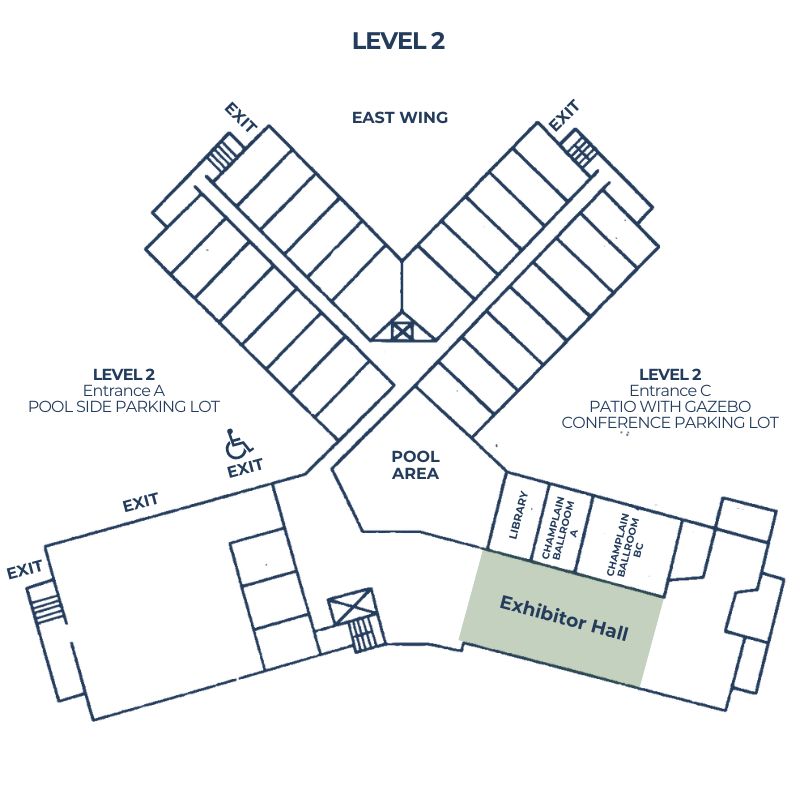
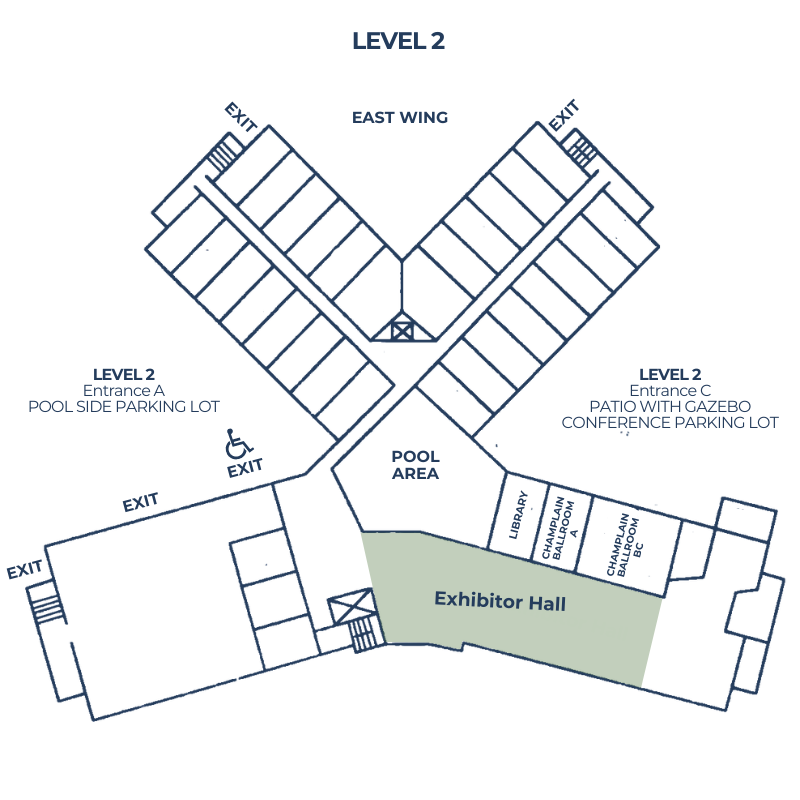
exhibitor section

Changed region(s): [[0.4375, 0.6562, 0.75, 0.8125], [0.75, 0.7812, 0.7812, 0.8125]]

diff --git a/api/templates/exhibitors.html b/api/templates/exhibitors.html
@@ -1,0 +1,26 @@
+{% include "header.html" %}
+{% block content %}
+
+
+{% for exhibitor in exhibitors %}
+
+<div class="container">
+    <div class="row">
+
+            <div class="col-lg-2">
+                <a href="{{ url_for('exhibitor_page', name=exhibitor['name']) }}">
+                <img src='{{ exhibitor["logo"]}}'></a>
+            </div>
+
+            <div class="col-lg-10">
+                <h3><a href="{{ url_for('exhibitor_page', name=exhibitor['name']) }}">{{ exhibitor["name"] }}</a></h3>
+                <p>{{ exhibitor["description"] }}</p>
+            </div>
+    </div>
+
+</div>
+
+{% endfor %}
+
+{% endblock %}
+{% include "footer.html" %}

diff --git a/api/templates/exhibitor_page.html b/api/templates/exhibitor_page.html
@@ -1,0 +1,23 @@
+{% include "header.html" %}
+{% block content %}
+
+
+<div class="container">
+    <div class="row">
+
+            <div class="col-lg-2">
+                <img src='{{ exhibitor["logo"]}}'>
+            </div>
+
+            <div class="col-lg-10">
+                <h1><a href="#">{{ exhibitor["name"] }}</a></h1>
+                <h5>Exhibitor Hall</h5>
+                <p>{{ exhibitor["description"] }}</p>
+                <img class="map_image" src='{{ url_for("static", filename="images/exhibitor_hall.png") }}'>
+            </div>
+    </div>
+
+</div>
+
+{% endblock %}
+{% include "footer.html" %}

diff --git a/api/templates/header.html b/api/templates/header.html
@@ -55,6 +55,9 @@
     <a class="nav-link {% if request.endpoint == 'filter_by_day' and request.args.get('timeframe') == 'friday' %}active{% endif %}" href="{{ url_for('filter_by_day', timeframe='friday') }}">Friday</a>
   </li>
     <li class="nav-item">
+    <a class="nav-link {% if request.endpoint == 'exhibitors' %}active{% endif %}" href="{{ url_for('exhibitors') }}">Exhibitors</a>
+  </li>
+    <li class="nav-item">
     <a class="nav-link {% if request.endpoint == 'map' %}active{% endif %}" href="{{ url_for('map') }}">Map & Parking</a>
   </li>
 

diff --git a/api/static/styles.css b/api/static/styles.css
@@ -42,6 +42,7 @@ a, #sessions_rows > div.col-lg-6 > a, #sessions_rows > div.col-lg-6 > a > div {
 
 .container, #sessions_rows {
     margin-top: 2%;
+    padding-bottom: 2%;
 }
 
 .hidden {

diff --git a/api/templates/map.html b/api/templates/map.html
@@ -18,6 +18,7 @@
     <div>
 </div>
 
-
+</div>
+</div>
 {% endblock %}
 {% include "footer.html" %}

diff --git a/api/main.py b/api/main.py
@@ -94,22 +94,17 @@ def presenter(name):
 def map():
     return render_template('map.html')
 
-@app.route('/sessions')
-def sessions():
-    df = pd.read_csv("api/static/summaries.csv").to_dict('records')
-    return render_template('sessions.html', sessions=df)
+@app.route('/exhibitors')
+def exhibitors():
+    df = pd.read_csv("api/static/oblc_data - exhibitors.csv").to_dict('records')
+    return render_template('exhibitors.html', exhibitors=df)
 
-@app.route('/sponsors')
-def sponsors():
-    df = pd.read_csv("api/static/exhibitors.csv").to_dict('records')
-    return render_template('sponsors.html', sponsors=df)
-
-@app.route('/sponsor_page/<name>')
-def sponsor(name):
+@app.route('/exhibitor_page/<name>')
+def exhibitor_page(name):
     decoded_name = unquote(name)
-    df = pd.read_csv("api/static/exhibitors.csv")
+    df = pd.read_csv("api/static/oblc_data - exhibitors.csv")
     row = df.loc[df['name'] == decoded_name].to_dict('records')[0]
-    return render_template('sponsor_page.html', sponsor=row)
+    return render_template('exhibitor_page.html', exhibitor=row)
 
 
 if __name__ == '__main__':
